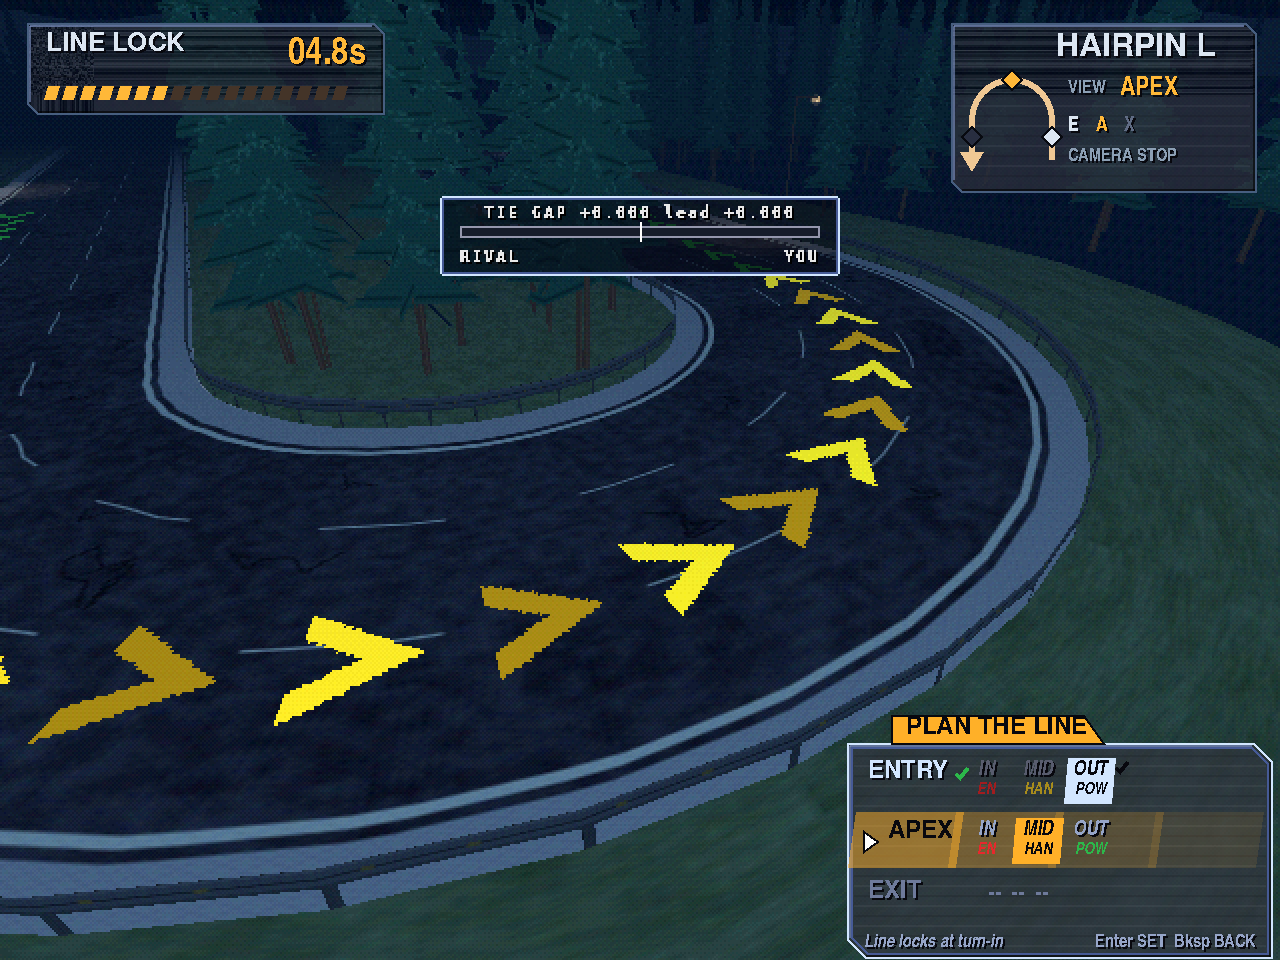
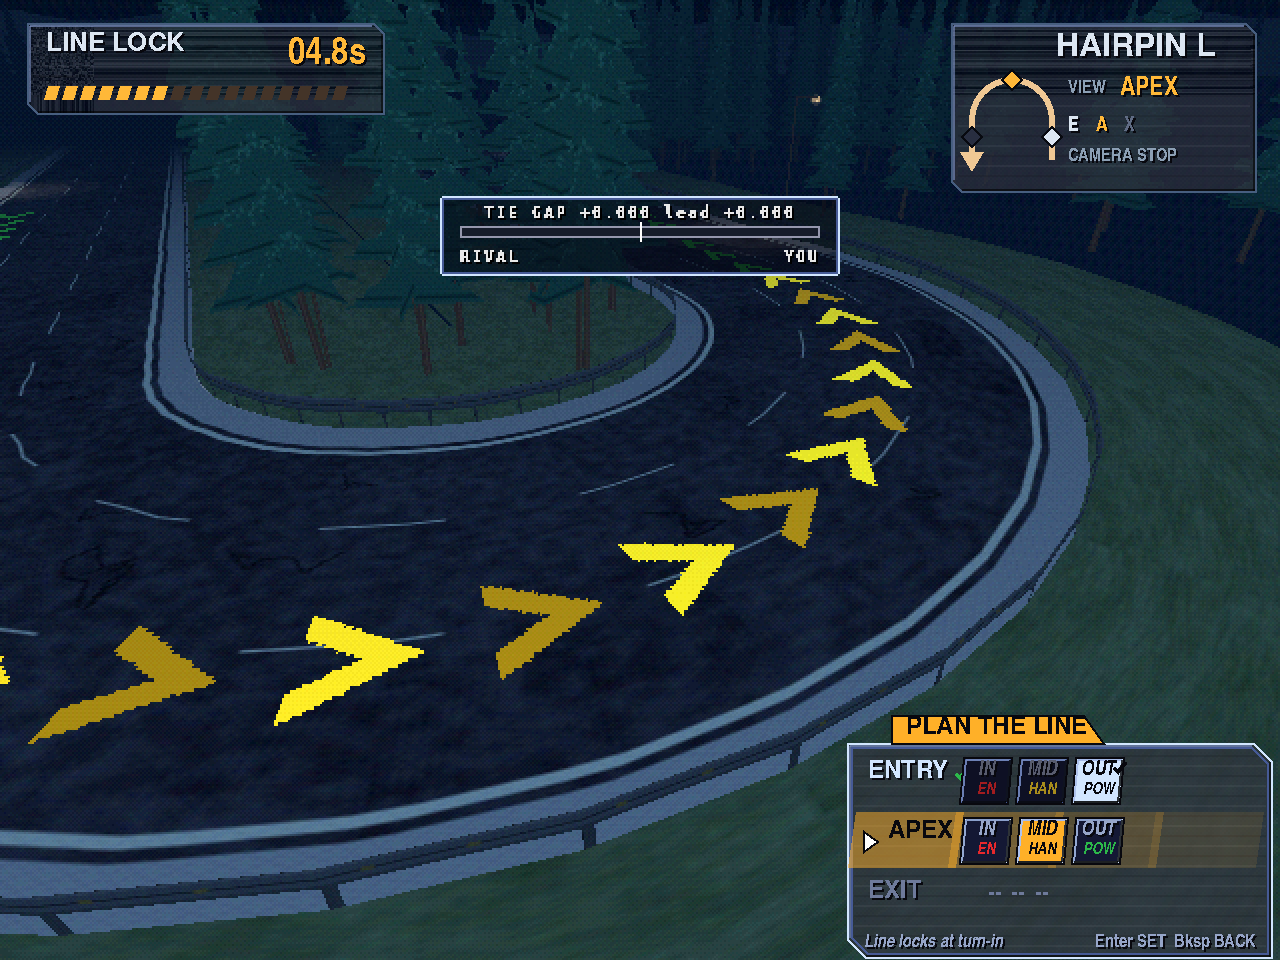
Art: frame every PLAN THE LINE OUT/MID/IN chip
Austin 2026-11-12: "The chips should be framed." Each chip now has a bold, bevelled, pixel-hard plate-style border; unselected chips included, selected highlight stays inside the frame.

Changed region(s): [[0.75, 0.7812, 0.875, 0.9062]]

diff --git a/unapproved/arthur/mockups/line_preview/README.md b/unapproved/arthur/mockups/line_preview/README.md
@@ -39,7 +39,7 @@ One contact sheet, plus the individual PNGs. Implied follow-on segments are draw
 
 ## HUD layout (these frames only)
 
-Combined PLAN THE LINE panel, bottom right. Three phase rows (ENTRY, APEX, EXIT). The active row is amber-highlighted with a caret. Every row labels the choices OUT / MID / IN (left-corner on-screen order on this hairpin), each with a small stat chip (OUT · POW, MID · HAN, IN · EN). The pick itself is the stat. Locked rows highlight the chosen lane chip with a tick; unselected chips are dimmed. The hovered choice on the active row is the highlighted chip. Pending rows show dashes. There is no plain POW / HAN / EN stance group and no second tag chip. The panel is slimmed and shifted down and to the right (pass 4) so it does not cover the MX5 in the chase shot. The race-split / tie-gap bar sits at the top centre, directly under the REAR VIEW label (the same slot when the mirror is off at the Apex and Exit stops). Gordon's files are untouched; this is only in the mockup HUD copies.
+Combined PLAN THE LINE panel, bottom right. Three phase rows (ENTRY, APEX, EXIT). The active row is amber-highlighted with a caret. Every row labels the choices OUT / MID / IN (left-corner on-screen order on this hairpin), each with a small framed stat chip (OUT · POW, MID · HAN, IN · EN). Each chip has a bold, bevelled, pixel-hard plate-style border, selected and unselected; the selected highlight stays inside the frame. The pick itself is the stat. Locked rows highlight the chosen lane chip with a tick; unselected chips are dimmed. The hovered choice on the active row is the highlighted chip. Pending rows show dashes. There is no plain POW / HAN / EN stance group and no second tag chip. The panel is slimmed and shifted down and to the right (pass 4) so it does not cover the MX5 in the chase shot. The race-split / tie-gap bar sits at the top centre, directly under the REAR VIEW label (the same slot when the mirror is off at the Apex and Exit stops). Gordon's files are untouched; this is only in the mockup HUD copies.
 
 Pipeline: 3D at 640×480 with no AA, then RGB555 + 4×4 Bayer, then one 2× nearest upscale. The HUD is composited after that, drawn sharp and pixel-hard at 1280×960 (no font AA, 2 px hard shadow). Plates use a noisy fill, a hard bevel and light banding, with heavier titles, in a Racing Lagoon / Gran Turismo 2 direction.
 

diff --git a/design/art/art_direction.md b/design/art/art_direction.md
@@ -281,7 +281,7 @@ segment's stat colour, solid (**POW** #2CB84A, **EN** #E8282C, **HAN** #F0C828).
 the line; a slight brightness ramp along a segment is fine. The hovered segment uses a lighter or pulsed variant.
 No glow or soft edges. Purely visual (Austin 2026-11-12): it does not
 affect scoring and has no sim/ values. Where the chevrons sit (Arthur, placeholder until Austin approves; earlier draft was flipped): the **POW** segment holds the outer line of the corner (drawn on the OUT lane), the **EN** segment cuts across the full lane width to the inner line (drawn on the IN lane), and the **HAN** segment runs mid-lane (drawn on the MID lane); each segment starts from the previous end point.
-The PLAN THE LINE panel (bottom right in the line-preview frames) has ENTRY, APEX and EXIT rows. Every row labels the choices **OUT / MID / IN**, each with a small stat chip (**OUT · POW**, **MID · HAN**, **IN · EN**), the same style on all three rows. Apex and Exit do not use plain POW / HAN / EN labels. The pick itself remains the stat (behind the screen, B.5 naming).
+The PLAN THE LINE panel (bottom right in the line-preview frames) has ENTRY, APEX and EXIT rows. Every row labels the choices **OUT / MID / IN**, each with a small stat chip (**OUT · POW**, **MID · HAN**, **IN · EN**), the same style on all three rows. Every chip has its own framed, bevelled, pixel-hard border in the late-90s plate style; unselected chips are framed too, and the selected chip keeps its highlight inside the frame. Apex and Exit do not use plain POW / HAN / EN labels. The pick itself remains the stat (behind the screen, B.5 naming).
 
 ### B.5a Corner playback: line vs line [APPROVED 2026-11-11]
 During the corner playback cinematic, show the LINE LOCKED panel with two rows, YOU and RIVAL, and both full 3-card

diff --git a/CHANGELOG.md b/CHANGELOG.md
@@ -8,6 +8,11 @@
 
 ---
 
+## 2026-11-12 — Arthur [art]: PLAN THE LINE stance chips are framed
+
+- **Why:** Austin follow-up, 2026-11-12: "The chips should be framed."
+- **What:** Every OUT / MID / IN chip on the PLAN THE LINE panel now has its own bold, late-90s bevelled/outlined border in the plate style (pixel-hard, ink outer + edge inner + hard bevel). Unselected chips are framed too; the selected highlight stays inside the frame. `plan_panel.gd` and the line-preview frames/sheets were re-rendered in Godot. B.5d and the mockup README note the framed-chip treatment.
+
 ## 2026-11-12 — Arthur [art]: PLAN THE LINE stance chips are OUT/MID/IN + stat on every row
 
 - **Why:** Austin, 2026-11-12: "stance selection should say in/mid/out for all, with a chip explaining stat."
